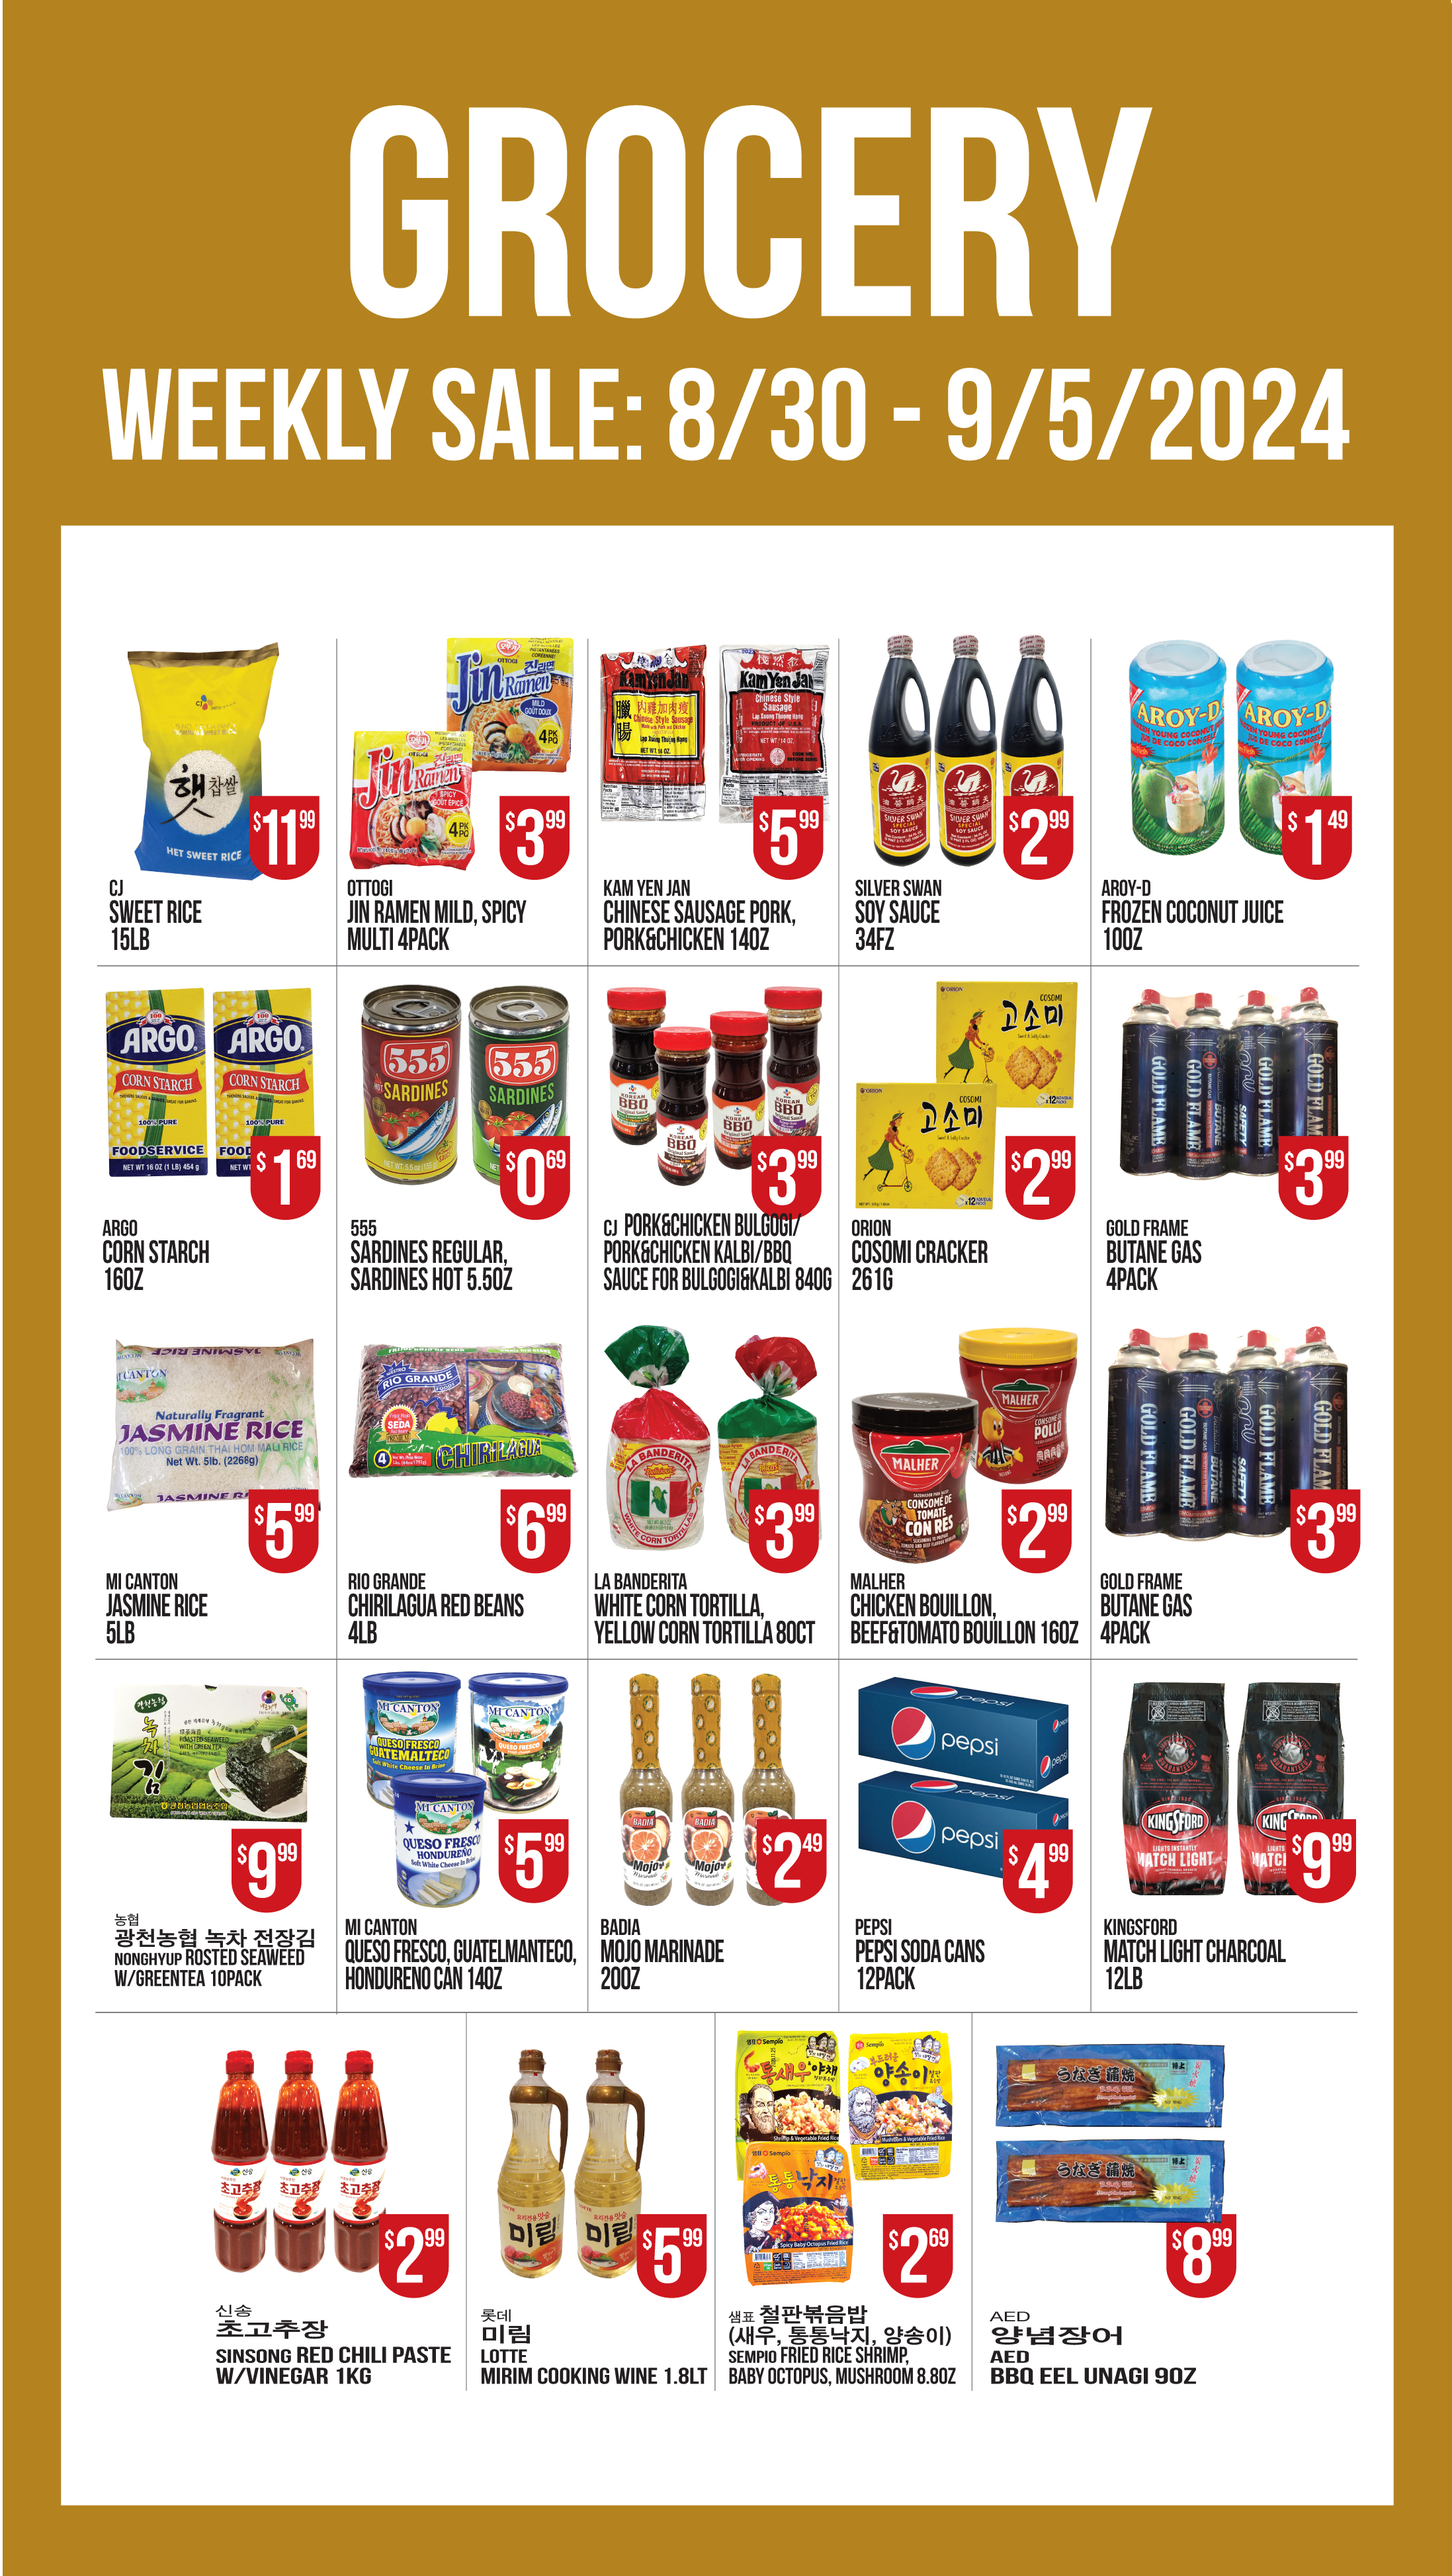
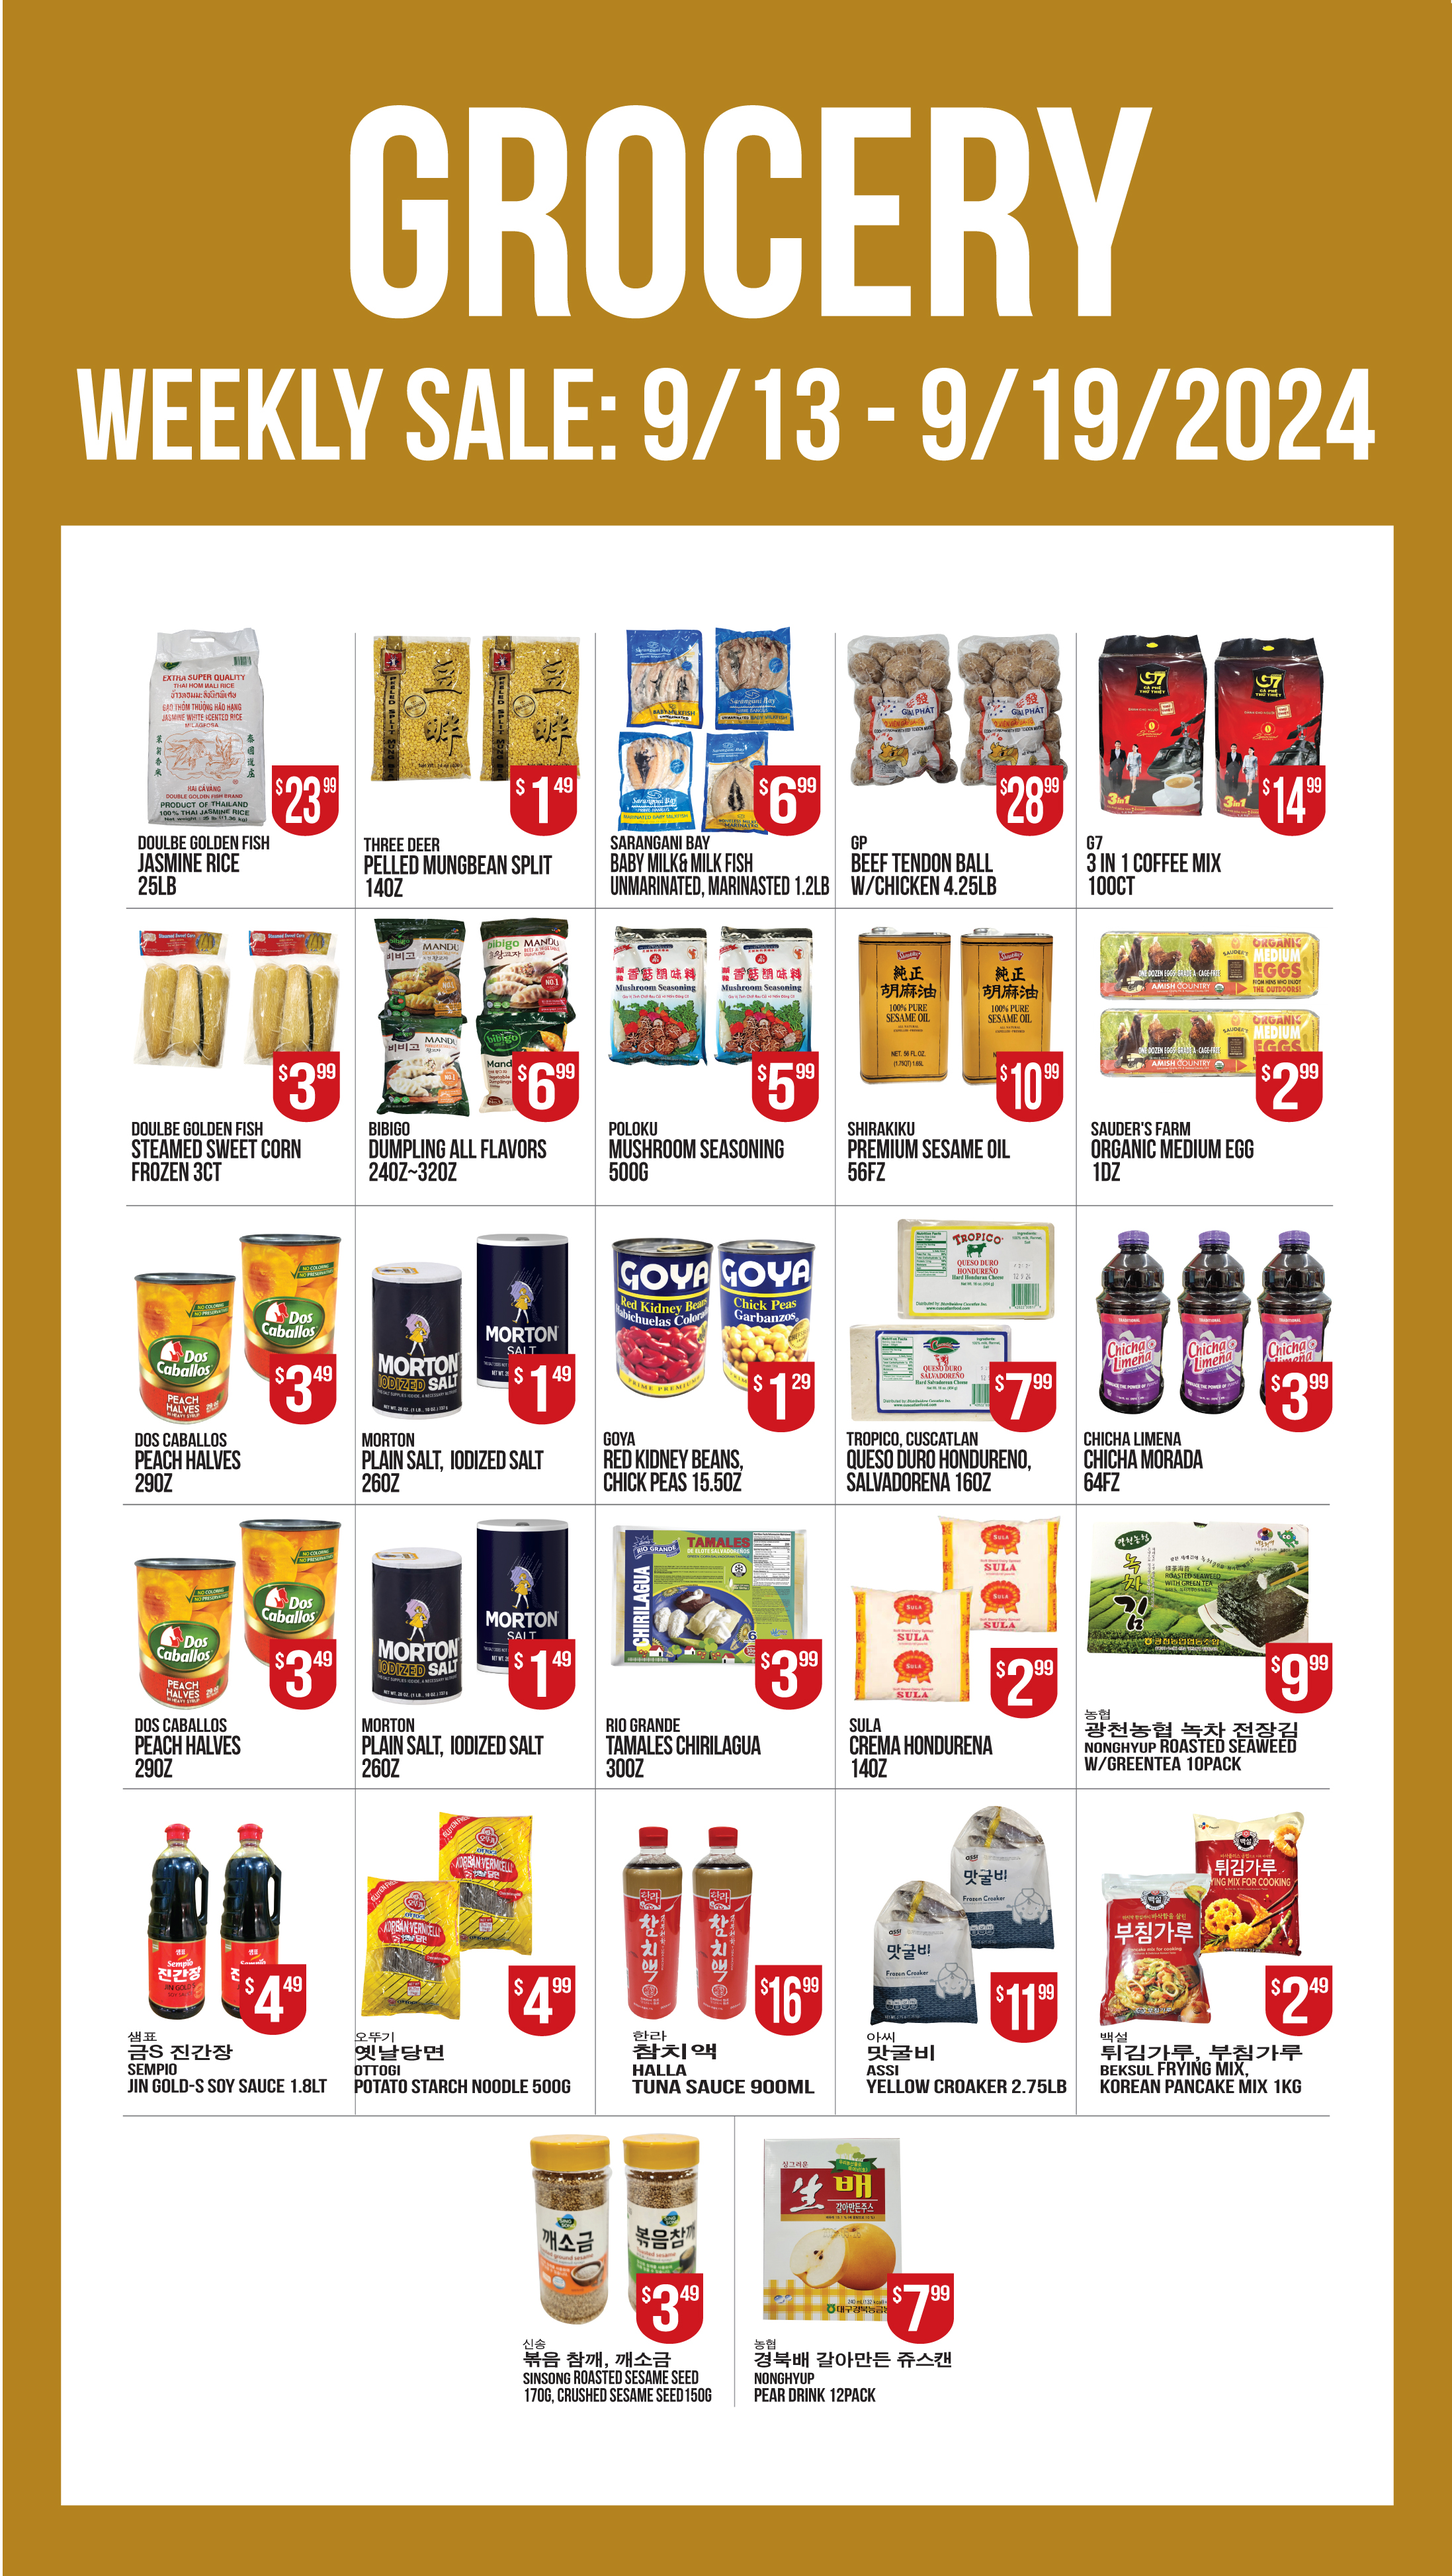
weekly

diff --git a/index.html b/index.html
@@ -64,16 +64,16 @@
           <img src="./public/assets/sp.jpg" class="d-block w-100 img-fluid" alt="...">
         </div> -->
         <div class="carousel-item center-carousel active">
-          <img src="./public/assets/weekly/meat.jpg?v=0830" class="img-fluid" alt="...">
+          <img src="./public/assets/weekly/meat.jpg?v=0913" class="img-fluid" alt="...">
         </div>
         <div class="carousel-item center-carousel">
-          <img src="./public/assets/weekly/veg.jpg?v=0830" class="img-fluid" alt="...">
+          <img src="./public/assets/weekly/veg.jpg?v=0913" class="img-fluid" alt="...">
         </div>
         <div class="carousel-item center-carousel">
-          <img src="./public/assets/weekly/fish.jpg?v=0830" class="img-fluid" alt="...">
+          <img src="./public/assets/weekly/fish.jpg?v=0913" class="img-fluid" alt="...">
         </div>
         <div class="carousel-item center-carousel">
-          <img src="./public/assets/weekly/grocery.jpg?v=0830" class="img-fluid" alt="...">
+          <img src="./public/assets/weekly/grocery.jpg?v=0913" class="img-fluid" alt="...">
         </div>
         <!-- <div class="carousel-item center-carousel">
           <img src="./public/assets/sale/grocery2.jpg?v=070623" class="img-fluid" alt="...">

diff --git a/deals.html b/deals.html
@@ -50,15 +50,15 @@
     <div class="row deal">
 
       <h2>English</h2>
-      <img class="img-fluid" src="./public/assets/weekly/english.jpg?v=0830">
+      <img class="img-fluid" src="./public/assets/weekly/english.jpg?v=0913">
 
       <br><br>
       <h2>Spanish</h2>
-      <img class="img-fluid" src="./public/assets/weekly/spanish.jpg?v=0830">
+      <img class="img-fluid" src="./public/assets/weekly/spanish.jpg?v=0913">
 
       <br>
       <h2>Korean</h2>
-      <img class="img-fluid" src="./public/assets/weekly/korean.jpg?v=0830">
+      <img class="img-fluid" src="./public/assets/weekly/korean.jpg?v=0913">
       <br>
       <br>
     </div>
